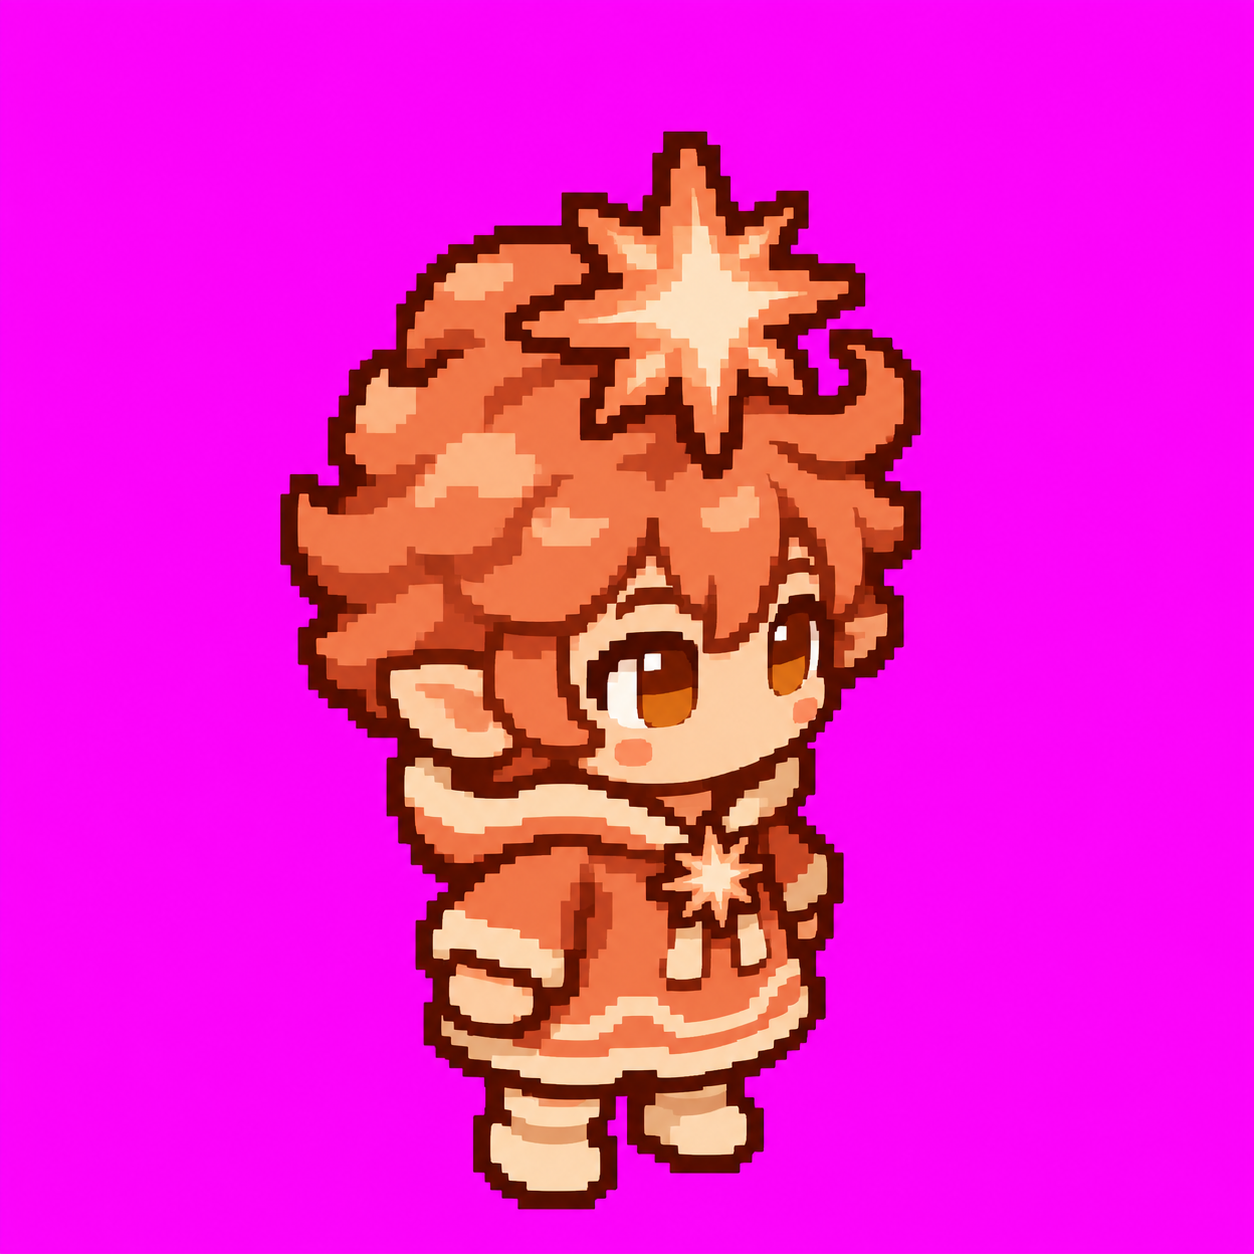
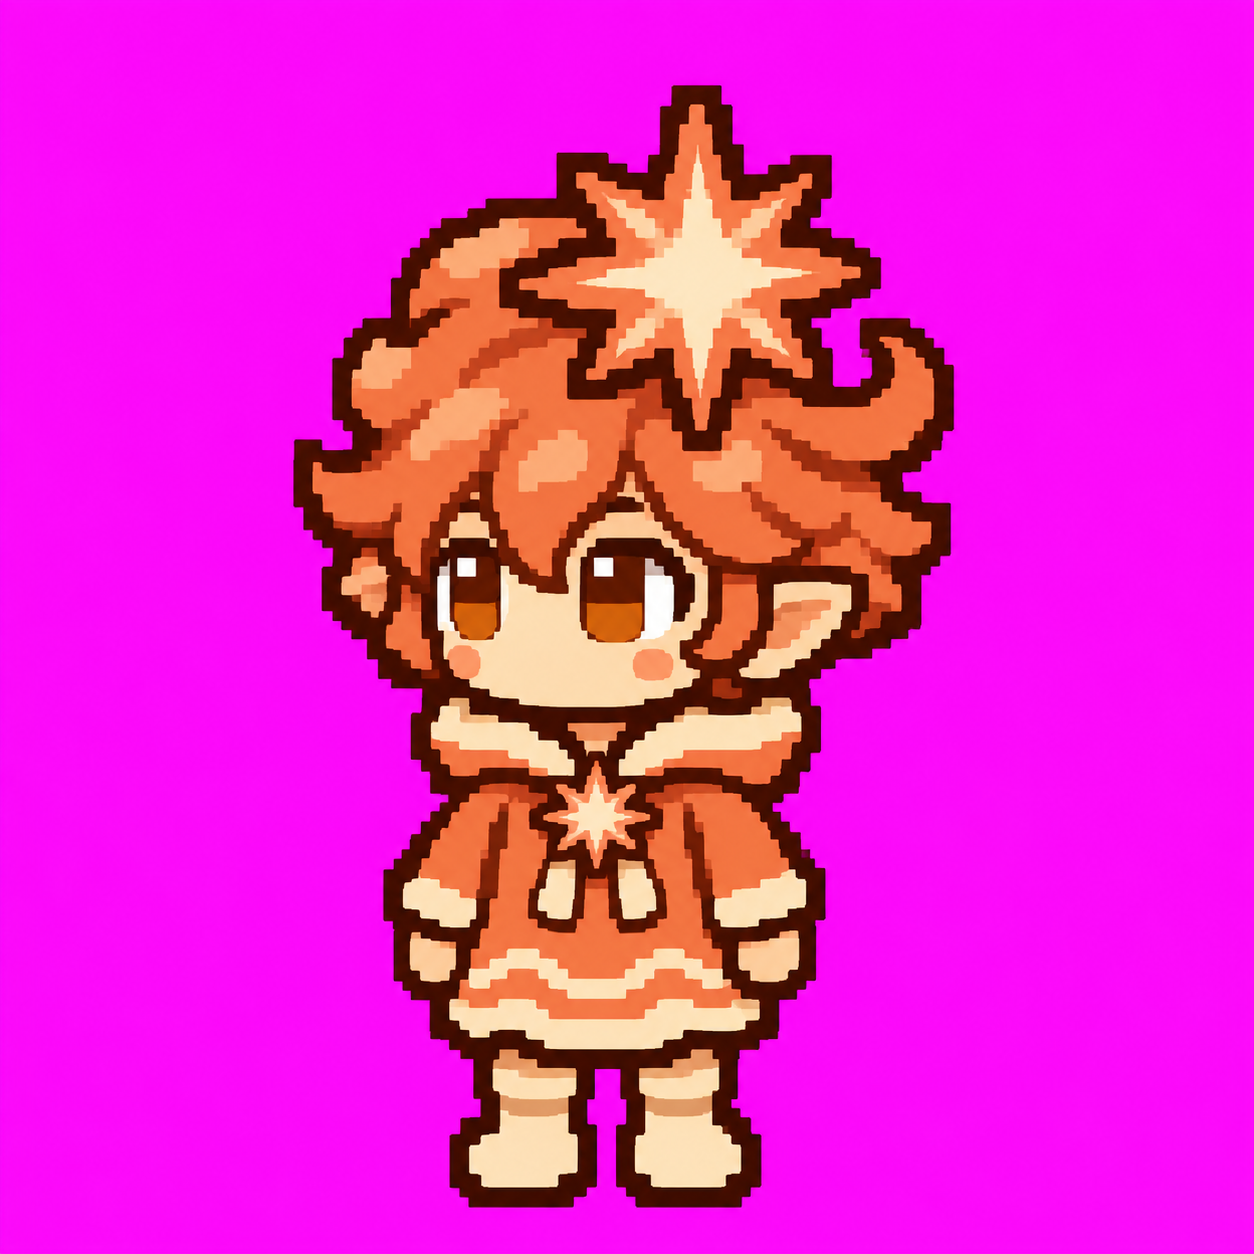
레인저 얼굴 곰 얼굴로 교체(정지·애니), 코덱스 모델 6.2 sol

Changed region(s): [[0.2177, 0.0622, 0.7775, 0.9641]]

diff --git a/개발일지/2026-11-25/이미지.md b/개발일지/2026-11-25/이미지.md
@@ -151,3 +151,10 @@
 - 헬가 애니 8칸: 새 그림(B안) 기준으로 코덱스 재생성, 구멍 채움 + 외곽선 #431402 통일. 옛것 gate_anim_v1.png.
 - 타이라 애니 귀를 칸마다 눈 위치(dy 0~1)에 맞춰 다시 그림 → 귀가 머리와 같이 움직임.
 - 원인 메모: fillholes(투명 구멍 채움)는 앞으로 코덱스 결과에 같이 적용.
+
+## 레인저 얼굴 교체 (사용자 확정) + 타이라 원본 복귀 + 사용 모델 변경
+- 레인저(ranger): 옛 레인저에서 얼굴만 곰 얼굴(눈 도트)로. 비율·두건·몸은 옛 그대로. 외곽선 빈 곳 정리(안쪽 작은 구멍 5칸). 정지 img/p/ranger.png, 애니 img/p/ranger_anim.png(코덱스가 새 얼굴 기준으로 8칸 생성). 옛것 ranger_v1.png, ranger_anim_v1.png.
+- 실패 기록: 코덱스 결과를 64칸으로 줄이면 얼굴 도트가 뭉개짐 → 눈은 곰 스프라이트 도트를 그대로 옮겨 찍어 해결. 정지 얼굴을 애니 칸에 옮기는 방식은 애니 칸 크기가 달라서 폐기.
+- 타이라(tiger): 사용자가 원본(둘째 그림)을 선택해 귀 키우기 작업 폐기, 원본으로 복귀(v590 배포).
+- 코덱스 모델: gpt-6.2-sol(medium)로 변경(사용자 지시). 스크립트 기본값 반영.
+- 시야각 조건(필수): 캐릭터는 약 20도 아래로 내려다보는 시점. AI 캐릭터는 마스코트와 같은 각도로 재생성(ai_sheet.png), 좌우 반전판 ai_sheet_left.png(마스코트와 마주 보게).
